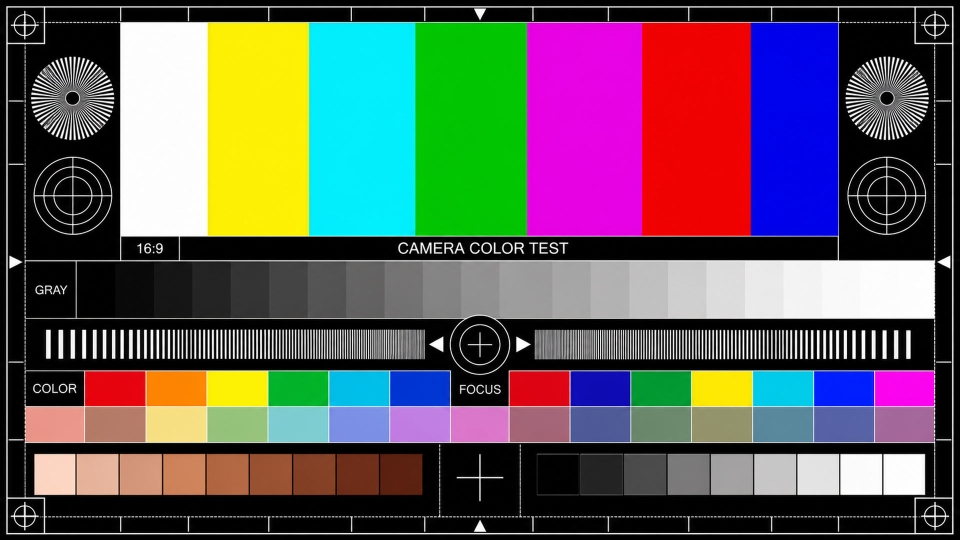
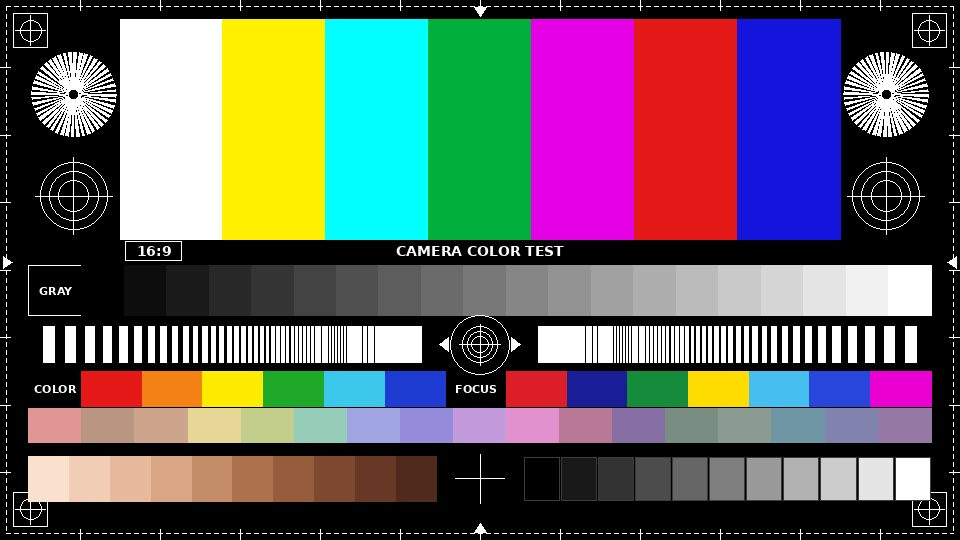
Fix Camera device missing default snapshot capabilities (#15)
* Fix Camera device missing default snapshot capabilities

CameraAvStreamManagement.Feature.Snapshot was enabled on the Camera
device but snapshotCapabilities/allocatedSnapshotStreams were never
seeded, leaving SnapshotCapabilities as an empty list at runtime.

* Fix CaptureSnapshot to honor the requested resolution

captureSnapshot always returned the hardcoded 480x270 calibration
card regardless of the client's requestedResolution, mismatching the
resolution advertised in snapshotCapabilities. It now picks whichever
of the three bundled calibration cards (480x270, 960x540, 1920x1080)
is closest by pixel count to the requested resolution.

* Regenerate snapshot calibration cards at standard resolutions and advertise all three

CaptureSnapshot's 480x270 and 960x540 calibration cards didn't match any
standard camera resolution. Replace them with basic SMPTE color-bars mires
generated with ffmpeg at 640x480 and 1280x720 (alongside the existing
1920x1080 card), and drop the closest-by-pixel-count matching logic in favor
of a direct exact-resolution lookup now that the assets align with what's
actually requested. Camera and SnapshotCamera default snapshotCapabilities
to advertise all three resolutions, since CaptureSnapshot can now genuinely
serve a matching card for each. Also adds direct unit test coverage for the
resolution-to-card lookup, addressing the Copilot review comment on PR #15.

* Regeneratee assets and use simple mires for test (small size)

---------

diff --git a/src/behaviors/cameraAvStreamManagementServer.ts b/src/behaviors/cameraAvStreamManagementServer.ts
@@ -29,9 +29,36 @@ import { CameraAvStreamManagementServer } from 'matterbridge/matter/behaviors';
 import { CameraAvStreamManagement } from 'matterbridge/matter/clusters';
 import { Status, StatusResponseError } from 'matterbridge/matter/types';
 
-const cameraColorTestJpeg = readFileSync(new URL('../../assets/camera-color-test-480-270.jpeg', import.meta.url));
-const cameraColorTestWidth = 480;
-const cameraColorTestHeight = 270;
+/**
+ * A static JPEG television calibration card available to serve from `CaptureSnapshot`, at a given resolution.
+ */
+export interface CameraColorTestJpeg {
+  /** The JPEG image data. */
+  data: Buffer;
+  /** The resolution of the JPEG image. */
+  resolution: CameraAvStreamManagement.VideoResolution;
+}
+
+const DEFAULT_CAMERA_COLOR_TEST_RESOLUTION = '640x480';
+
+const cameraColorTestJpegs: Record<string, CameraColorTestJpeg> = {
+  '640x480': { data: readFileSync(new URL('../../assets/camera-color-640-480.jpeg', import.meta.url)), resolution: { width: 640, height: 480 } },
+  '1280x720': { data: readFileSync(new URL('../../assets/camera-color-1280-720.jpeg', import.meta.url)), resolution: { width: 1280, height: 720 } },
+  '1920x1080': { data: readFileSync(new URL('../../assets/camera-color-1920-1080.jpeg', import.meta.url)), resolution: { width: 1920, height: 1080 } },
+};
+
+/**
+ * Returns the {@link CameraColorTestJpeg} calibration card matching the requested resolution exactly.
+ *
+ * Edge cases:
+ *  - Falls back to the 640x480 card when the requested resolution isn't one of the standard camera resolutions (640x480, 1280x720, 1920x1080).
+ *
+ * @param {CameraAvStreamManagement.VideoResolution} requestedResolution - The resolution requested by the client.
+ * @returns {CameraColorTestJpeg} The matching calibration card.
+ */
+export function cameraColorTestJpegForResolution(requestedResolution: CameraAvStreamManagement.VideoResolution): CameraColorTestJpeg {
+  return cameraColorTestJpegs[`${requestedResolution.width}x${requestedResolution.height}`] ?? cameraColorTestJpegs[DEFAULT_CAMERA_COLOR_TEST_RESOLUTION];
+}
 
 /**
  * CameraAvStreamManagement server, specialized for the Snapshot feature only, that implements the
@@ -230,7 +257,8 @@ export class MatterbridgeCameraAvStreamManagementServer extends CameraAvStreamMa
   /**
    * Handles the CaptureSnapshot command.
    * Returns a snapshot from the camera for the requested (or automatically selected) snapshot stream.
-   * The image data is a static JPEG television calibration card until a real capture pipeline is wired in.
+   * The image data is a static JPEG television calibration card, picked from {@link cameraColorTestJpegs} to match
+   * the requested resolution, until a real capture pipeline is wired in.
    *
    * @param {CameraAvStreamManagement.CaptureSnapshotRequest} request - CaptureSnapshot request payload.
    * @returns {Promise<CameraAvStreamManagement.CaptureSnapshotResponse>} The captured snapshot.
@@ -252,10 +280,11 @@ export class MatterbridgeCameraAvStreamManagementServer extends CameraAvStreamMa
     });
     */
     device.log.debug(`MatterbridgeCameraAvStreamManagementServer: captureSnapshot called with snapshotStreamId ${request.snapshotStreamId}`);
+    const { data, resolution } = cameraColorTestJpegForResolution(request.requestedResolution);
     return {
-      data: cameraColorTestJpeg,
+      data,
       imageCodec: CameraAvStreamManagement.ImageCodec.Jpeg,
-      resolution: { width: cameraColorTestWidth, height: cameraColorTestHeight },
+      resolution,
     };
   }
 }

diff --git a/src/devices/camera.ts b/src/devices/camera.ts
@@ -36,10 +36,9 @@ import { MatterbridgeWebRtcTransportProviderServer } from '../behaviors/webRtcTr
 /**
  * Options for configuring a {@link Camera} instance.
  *
- * Only the CameraAvStreamManagement Video, Audio and ImageControl features, the WebRtcTransportProvider cluster, and the
- * WebRtcTransportRequestor client (Offer invocation only) are implemented: the CameraAvStreamManagement Snapshot feature,
- * and the Answer/End invocations on the WebRtcTransportRequestor client, required by the Matter specification for a fully
- * compliant Camera device type, are not part of this example.
+ * The CameraAvStreamManagement Video, Audio, Snapshot and ImageControl features and the WebRtcTransportProvider cluster
+ * are implemented; only the Answer/End invocations on the WebRtcTransportRequestor client (Offer invocation only is
+ * implemented), required by the Matter specification for a fully compliant Camera device type, are not part of this example.
  */
 export interface CameraOptions {
   /** Identify time in seconds */
@@ -73,6 +72,10 @@ export interface CameraOptions {
   viewport?: Viewport;
   /** Indicates the audio capabilities of the microphone in terms of the codec used, supported sample rates and the number of channels */
   microphoneCapabilities?: CameraAvStreamManagement.AudioCapabilities;
+  /** Indicates the list of supported snapshot capabilities */
+  snapshotCapabilities?: CameraAvStreamManagement.SnapshotCapabilities[];
+  /** Indicates the list of allocated snapshot streams */
+  allocatedSnapshotStreams?: CameraAvStreamManagement.SnapshotStream[];
 }
 
 /**
@@ -108,6 +111,8 @@ export class Camera extends MatterbridgeEndpoint {
    *  - imageFlipHorizontal: false
    *  - imageFlipVertical: false
    *  - microphoneCapabilities: { maxNumberOfChannels: 1, supportedCodecs: [AudioCodec.Opus], supportedSampleRates: [48000], supportedBitDepths: [16] }
+   *  - snapshotCapabilities: [{ resolution: 640x480 }, { resolution: 1280x720 }, { resolution: 1920x1080 }], each with maxFrameRate: 10, imageCodec: ImageCodec.Jpeg, requiresEncodedPixels: false
+   *  - allocatedSnapshotStreams: []
    *
    * @returns {Camera} The Camera instance.
    */
@@ -128,6 +133,12 @@ export class Camera extends MatterbridgeEndpoint {
       currentFrameRate = 30,
       viewport = { x1: 0, y1: 0, x2: videoSensorParams.sensorWidth, y2: videoSensorParams.sensorHeight },
       microphoneCapabilities = { maxNumberOfChannels: 1, supportedCodecs: [CameraAvStreamManagement.AudioCodec.Opus], supportedSampleRates: [48000], supportedBitDepths: [16] },
+      snapshotCapabilities = [
+        { resolution: { width: 640, height: 480 }, maxFrameRate: 10, imageCodec: CameraAvStreamManagement.ImageCodec.Jpeg, requiresEncodedPixels: false },
+        { resolution: { width: 1280, height: 720 }, maxFrameRate: 10, imageCodec: CameraAvStreamManagement.ImageCodec.Jpeg, requiresEncodedPixels: false },
+        { resolution: { width: 1920, height: 1080 }, maxFrameRate: 10, imageCodec: CameraAvStreamManagement.ImageCodec.Jpeg, requiresEncodedPixels: false },
+      ],
+      allocatedSnapshotStreams = [],
     } = options;
     super(powerSourceType === 'None' ? [camera] : [camera, powerSource], { id: `${name.replaceAll(' ', '')}-${serial.replaceAll(' ', '')}` });
     if (identifyType !== Identify.IdentifyType.None) {
@@ -165,6 +176,8 @@ export class Camera extends MatterbridgeEndpoint {
       currentFrameRate,
       viewport,
       microphoneCapabilities,
+      snapshotCapabilities,
+      allocatedSnapshotStreams,
     });
     createDefaultWebRtcTransportProviderClusterServer(this);
     addWebRtcTransportRequestorClient(this);
@@ -200,11 +213,15 @@ export interface CameraAvStreamManagementClusterOptions {
   viewport: Viewport;
   /** Indicates the audio capabilities of the microphone in terms of the codec used, supported sample rates and the number of channels */
   microphoneCapabilities: CameraAvStreamManagement.AudioCapabilities;
+  /** Indicates the list of supported snapshot capabilities */
+  snapshotCapabilities: CameraAvStreamManagement.SnapshotCapabilities[];
+  /** Indicates the list of allocated snapshot streams */
+  allocatedSnapshotStreams: CameraAvStreamManagement.SnapshotStream[];
 }
 
 /**
- * Creates a default CameraAvStreamManagement cluster server, with the Video, Audio and ImageControl features enabled, on
- * the given endpoint.
+ * Creates a default CameraAvStreamManagement cluster server, with the Video, Audio, Snapshot and ImageControl features
+ * enabled, on the given endpoint.
  *
  * @param {MatterbridgeEndpoint} endpoint - The endpoint to create the CameraAvStreamManagement cluster server on.
  * @param {CameraAvStreamManagementClusterOptions} options - The initial state of the CameraAvStreamManagement cluster server.

diff --git a/vitest/behaviors/cameraAvStreamManagementServer.test.ts b/vitest/behaviors/cameraAvStreamManagementServer.test.ts
@@ -22,7 +22,7 @@ import {
   stopServerNode,
 } from 'matterbridge/vitest-utils/matter';
 
-import { MatterbridgeCameraAvStreamManagementServer } from '../../src/behaviors/cameraAvStreamManagementServer.js';
+import { cameraColorTestJpegForResolution, MatterbridgeCameraAvStreamManagementServer } from '../../src/behaviors/cameraAvStreamManagementServer.js';
 import { Camera } from '../../src/devices/camera.js';
 import { SnapshotCamera } from '../../src/devices/snapshotCamera.js';
 
@@ -157,6 +157,27 @@ describe('MatterbridgeCameraAvStreamManagementServer', () => {
     ).resolves.toBeUndefined();
 
     expect(loggerInfoSpy).toHaveBeenCalledWith(expect.stringContaining('Capturing snapshot auto'));
+  });
+
+  it.each([
+    [
+      { width: 640, height: 480 },
+      { width: 640, height: 480 },
+    ],
+    [
+      { width: 1280, height: 720 },
+      { width: 1280, height: 720 },
+    ],
+    [
+      { width: 1920, height: 1080 },
+      { width: 1920, height: 1080 },
+    ],
+  ])('should return the calibration card matching a requested resolution of %o', (requestedResolution, expectedResolution) => {
+    expect(cameraColorTestJpegForResolution(requestedResolution).resolution).toEqual(expectedResolution);
+  });
+
+  it('should fall back to the 640x480 calibration card for a non-standard requested resolution', () => {
+    expect(cameraColorTestJpegForResolution({ width: 800, height: 600 }).resolution).toEqual({ width: 640, height: 480 });
   });
 
   it('should create and register a snapshot camera with no allocated streams for setStreamPriorities validation', async () => {

diff --git a/src/devices/snapshotCamera.ts b/src/devices/snapshotCamera.ts
@@ -68,6 +68,9 @@ export class SnapshotCamera extends MatterbridgeEndpoint {
    * A Snapshot Camera is a camera which can only support retrieving still images on-demand via the Capture
    * Snapshot command in the Camera AV Stream Management cluster.
    *
+   * The CameraAvStreamManagement Snapshot and ImageControl features are implemented; the Video and Audio features
+   * are not part of this example (see the Camera device for one implementing those).
+   *
    * @param {string} name - The name of the snapshot camera.
    * @param {string} serial - The serial number of the snapshot camera.
    * @param {SnapshotCameraOptions} [options] - Optional configuration values. Missing fields use defaults.
@@ -80,7 +83,7 @@ export class SnapshotCamera extends MatterbridgeEndpoint {
    *  - maxConcurrentEncoders: 1
    *  - maxEncodedPixelRate: 10000000
    *  - maxContentBufferSize: 1024
-   *  - snapshotCapabilities: [{ resolution: { width: 1280, height: 720 }, maxFrameRate: 10, imageCodec: ImageCodec.Jpeg, requiresEncodedPixels: false }]
+   *  - snapshotCapabilities: [{ resolution: 640x480 }, { resolution: 1280x720 }, { resolution: 1920x1080 }], each with maxFrameRate: 10, imageCodec: ImageCodec.Jpeg, requiresEncodedPixels: false
    *  - maxNetworkBandwidth: 10000
    *  - supportedStreamUsages: [StreamUsage.Recording]
    *  - allocatedSnapshotStreams: []
@@ -99,12 +102,9 @@ export class SnapshotCamera extends MatterbridgeEndpoint {
       maxEncodedPixelRate = 10000000,
       maxContentBufferSize = 1024,
       snapshotCapabilities = [
-        {
-          resolution: { width: 1280, height: 720 },
-          maxFrameRate: 10,
-          imageCodec: CameraAvStreamManagement.ImageCodec.Jpeg,
-          requiresEncodedPixels: false,
-        },
+        { resolution: { width: 640, height: 480 }, maxFrameRate: 10, imageCodec: CameraAvStreamManagement.ImageCodec.Jpeg, requiresEncodedPixels: false },
+        { resolution: { width: 1280, height: 720 }, maxFrameRate: 10, imageCodec: CameraAvStreamManagement.ImageCodec.Jpeg, requiresEncodedPixels: false },
+        { resolution: { width: 1920, height: 1080 }, maxFrameRate: 10, imageCodec: CameraAvStreamManagement.ImageCodec.Jpeg, requiresEncodedPixels: false },
       ],
       maxNetworkBandwidth = 10000,
       supportedStreamUsages = [StreamUsage.Recording],

diff --git a/vitest/devices/camera.test.ts b/vitest/devices/camera.test.ts
@@ -132,7 +132,21 @@ describe('Camera', () => {
         currentFrameRate: 30,
         viewport: { x1: 0, y1: 0, x2: 1920, y2: 1080 },
         microphoneCapabilities: { maxNumberOfChannels: 1, supportedCodecs: [CameraAvStreamManagement.AudioCodec.Opus], supportedSampleRates: [48000], supportedBitDepths: [16] },
+        snapshotCapabilities: [{ resolution: { width: 1280, height: 720 }, maxFrameRate: 10, imageCodec: CameraAvStreamManagement.ImageCodec.Jpeg, requiresEncodedPixels: false }],
+        allocatedSnapshotStreams: [],
       }),
     ).toBe(device);
+  });
+
+  it('should create a camera device with default snapshot capabilities', async () => {
+    const device = new Camera('Camera Snapshot Defaults', 'CAMERA-SNAPSHOT-DEFAULTS');
+
+    expect(await addDevice(aggregator, device)).toBeTruthy();
+    expect(device.getAttribute(CameraAvStreamManagement, 'snapshotCapabilities')).toEqual([
+      { resolution: { width: 640, height: 480 }, maxFrameRate: 10, imageCodec: CameraAvStreamManagement.ImageCodec.Jpeg, requiresEncodedPixels: false },
+      { resolution: { width: 1280, height: 720 }, maxFrameRate: 10, imageCodec: CameraAvStreamManagement.ImageCodec.Jpeg, requiresEncodedPixels: false },
+      { resolution: { width: 1920, height: 1080 }, maxFrameRate: 10, imageCodec: CameraAvStreamManagement.ImageCodec.Jpeg, requiresEncodedPixels: false },
+    ]);
+    expect(device.getAttribute(CameraAvStreamManagement, 'allocatedSnapshotStreams')).toEqual([]);
   });
 });

diff --git a/vitest/devices/snapshotCamera.test.ts b/vitest/devices/snapshotCamera.test.ts
@@ -76,12 +76,9 @@ describe('SnapshotCamera', () => {
     expect(device.getAttribute(CameraAvStreamManagement, 'maxEncodedPixelRate')).toBe(10000000);
     expect(device.getAttribute(CameraAvStreamManagement, 'maxContentBufferSize')).toBe(1024);
     expect(device.getAttribute(CameraAvStreamManagement, 'snapshotCapabilities')).toEqual([
-      {
-        resolution: { width: 1280, height: 720 },
-        maxFrameRate: 10,
-        imageCodec: CameraAvStreamManagement.ImageCodec.Jpeg,
-        requiresEncodedPixels: false,
-      },
+      { resolution: { width: 640, height: 480 }, maxFrameRate: 10, imageCodec: CameraAvStreamManagement.ImageCodec.Jpeg, requiresEncodedPixels: false },
+      { resolution: { width: 1280, height: 720 }, maxFrameRate: 10, imageCodec: CameraAvStreamManagement.ImageCodec.Jpeg, requiresEncodedPixels: false },
+      { resolution: { width: 1920, height: 1080 }, maxFrameRate: 10, imageCodec: CameraAvStreamManagement.ImageCodec.Jpeg, requiresEncodedPixels: false },
     ]);
     expect(device.getAttribute(CameraAvStreamManagement, 'maxNetworkBandwidth')).toBe(10000);
     expect(device.getAttribute(CameraAvStreamManagement, 'supportedStreamUsages')).toEqual([StreamUsage.Recording]);

diff --git a/CHANGELOG.md b/CHANGELOG.md
@@ -27,23 +27,26 @@ If you like this project and find it useful, please consider giving it a star on
 
 <a href="https://www.buymeacoffee.com/luligugithub"><img src="https://matterbridge.io/assets/bmc-button.svg" alt="Buy me a coffee" width="120"></a>
 
-## [Unreleased]
+## [0.0.4] - Dev branch
 
 ### Added
 
 - [webrtc]: `WebRtcTransportProvider` now negotiates real SDP offers/answers through a werift `RTCPeerConnection` (`WeriftWebRtcSession`) instead of a placeholder SDP string, and applies real ICE candidates and connection teardown.
 - [webrtc]: Injects a real video track into the negotiated connection via ffmpeg, so the media path can be validated end to end without a physical camera. Defaults to a synthetic SMPTE bars test pattern, or captures from a real local webcam (`MATTERBRIDGE_CAMERA_VIDEO_SOURCE=webcam`, `MATTERBRIDGE_CAMERA_WEBCAM_DEVICE`) at 640x480/1280x720/1920x1080, following the resolution the client actually allocated via `CameraAvStreamManagement.VideoStreamAllocate`. See the README for the full list of environment variables.
-
 - [webrtc]: `SolicitOffer`/`ProvideOffer` now automatically select or allocate a video/audio stream when the client omits `videoStreams`/`audioStreams` (and their deprecated single-id counterparts), per the Matter specification's automatic stream selection for revision 1 clients. This is required to interoperate with Home Assistant's Matter camera integration ([home-assistant/core#176080](https://github.com/home-assistant/core/pull/176080)), which never allocates streams explicitly and expects the camera to select them on its own.
 
 ### Changed
 
 - [webrtc]: Offer/Answer invokes now address the peer's `WebRtcTransportRequestor` directly using the peer node id captured from the session (matching matter.js's OTA Provider/Requestor pattern), instead of the Binding cluster.
 - [webrtc]: Improved ICE candidate handling and WebRTC session logging, including logging why the peer's `WebRtcTransportRequestor` endpoint couldn't be resolved (previously a silent failure), and closing dangling WebRTC sessions left open when the requestor is unreachable.
+- [camera]: Document in the JSDoc that the CameraAvStreamManagement Snapshot feature is implemented.
+- [snapshot camera]: Document the CameraAvStreamManagement features implemented in the JSDoc.
 
 ### Fixed
 
 - [webrtc]: `ProvideOfferResponse`/`SolicitOfferResponse` now echo back the deprecated `videoStreamId`/`audioStreamId` fields when the request used them, as required by the Matter specification's conformance rules. Revision 1 clients (e.g. Home Assistant) send these fields as `null` to request automatic stream selection, and rely on the echoed value to learn which stream was selected; without it, they could not determine that a stream had in fact been negotiated.
+- [camera]: Fix `Camera` to provide default `snapshotCapabilities` and `allocatedSnapshotStreams` values for the CameraAvStreamManagement Snapshot feature, which was enabled but left the `SnapshotCapabilities` attribute as an empty list.
+- [snapshot]: `CaptureSnapshot` calibration cards were 480×270 and 960×540, which don't match any standard camera resolution. Regenerated the two cards as basic SMPTE color-bars test patterns (mires) at 640×480 and 1280×720 1920-1080, matching the resolutions the webcam capture path actually negotiates. `Camera` and `SnapshotCamera` now default `snapshotCapabilities` to advertise all three resolutions, since `CaptureSnapshot` can genuinely serve a matching calibration card for each.
 
 <a href="https://www.buymeacoffee.com/luligugithub"><img src="https://matterbridge.io/assets/bmc-button.svg" alt="Buy me a coffee" width="80"></a>
 

diff --git a/README.md b/README.md
@@ -145,8 +145,8 @@ The `assets` directory contains deterministic three-second media fixtures for ex
 - `test-audio.opus`: Ogg container with mono Opus audio at 48 kHz and 64 kbit/s, containing a 1 kHz test tone. Use the Opus packets for an audio RTP track; the Ogg container itself is not sent over WebRTC.
 - `test-camera.mp4`: playable reference containing the same 640×360 H.264 test pattern and a mono 1 kHz AAC track. The werift test transfers the complete file over its SCTP data channel and verifies its integrity. This exercises binary file transport, not a WebRTC video RTP track.
 - `camera-color-test-1920-1080.jpeg`: 1920×1080 broadcast-style snapshot calibration card returned by the example's `CaptureSnapshot` command. It contains color bars, grayscale references, geometry targets, focus patterns, safe-area guides, and near-black/near-white patches for inspecting hue, saturation, brightness, contrast, geometry, overscan, and focus.
-- `camera-color-test-960-540.jpeg`: 960×540 broadcast-style snapshot calibration card returned by the example's `CaptureSnapshot` command.
-- `camera-color-test-480-270.jpeg`: 480×270 broadcast-style snapshot calibration card returned by the example's `CaptureSnapshot` command.
+- `camera-color-test-1280-720.jpeg`: 1280×720 SMPTE color-bars test pattern (mire) returned by the example's `CaptureSnapshot` command, generated with `ffmpeg -f lavfi -i smptebars=size=1280x720`.
+- `camera-color-test-640-480.jpeg`: 640×480 SMPTE color-bars test pattern (mire) returned by the example's `CaptureSnapshot` command, generated with `ffmpeg -f lavfi -i smptebars=size=640x480`.
 
 WebRTC media tracks transport encoded H.264 or Opus frames in RTP packets; they do not send an MP4, Ogg, or MPEG container directly. The current MP4 transfer deliberately uses the separate data-channel path. A future video-track test should parse the relevant elementary frames, packetize them as RTP, call werift's media track `writeRtp()`, and verify reception through `onTrack` and `onReceiveRtp`.
 